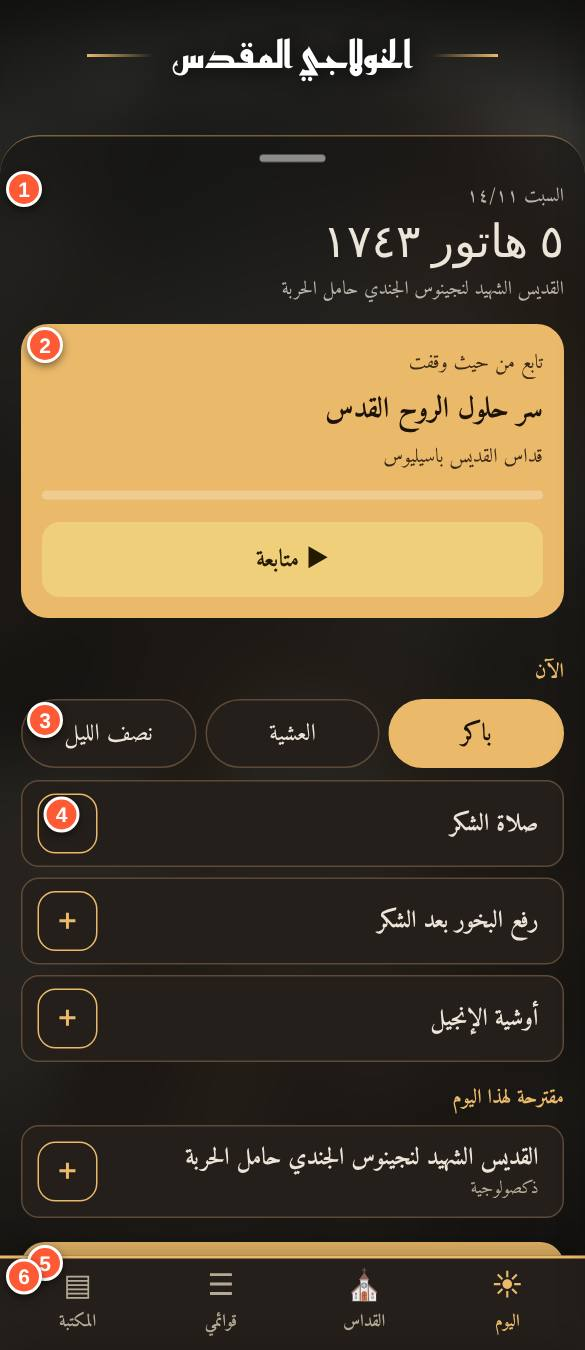
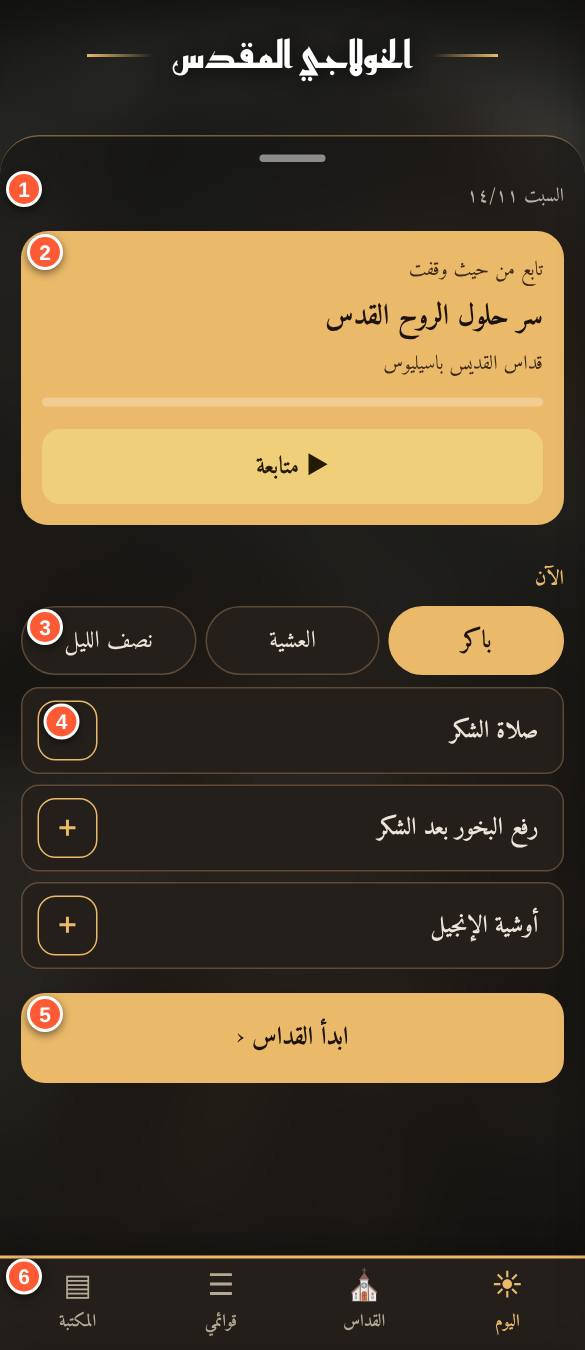
إلغاء وضع الشماس: ابدأ القداس بنفس الشكل العادي (r127)
Claude-Session: https://claude.ai/code/session_01TxsQH8W41ZBNhnMhe9bVaK

diff --git a/index.html b/index.html
@@ -775,7 +775,7 @@ function lastSet(v){try{localStorage.setItem("khulagi.last",v);localStorage.setI
 function seenGet(){try{return JSON.parse(localStorage.getItem("khulagi.seen")||"{}")}catch(e){return {}}}
 function seenSet(id){try{var m=seenGet();if(!m[id]){m[id]=1;localStorage.setItem("khulagi.seen",JSON.stringify(m))}}catch(e){}}
 function effMode(){var m=S.mode||"auto";if(DMon())return"dark";if(m==="auto")m=(window.matchMedia&&matchMedia("(prefers-color-scheme: light)").matches)?"light":"dark";return m}
-function DMon(){return typeof DM!=="undefined"&&DM}
+function DMon(){return false}
 function effTheme(){return effMode()==="light"?(S.tl||"parchment"):(S.td||"dawn")}
 function apply(){var r=document.documentElement;S.theme=effTheme();r.setAttribute("data-theme",S.theme);r.setAttribute("data-mode",effMode());r.style.colorScheme=effMode();r.style.setProperty("--fs",S.fs+"px");r.setAttribute("data-hv",S.hv);r.setAttribute("data-ds","d1");S.ff&&S.ff!=="amiri"?r.setAttribute("data-ff",S.ff):r.removeAttribute("data-ff");r.setAttribute("data-dn",S.dn);r.setAttribute("data-slim",S.slim?"true":"false");
   var m=document.querySelector('meta[name=theme-color]');if(m){var c=getComputedStyle(r).getPropertyValue("--bg").trim();if(c)m.content=c}}
@@ -1116,7 +1116,7 @@ function libView(){
   h+='</div><div class="tdl">أدوات</div><div class="chips"><button data-bn="map">☰ الفهرس</button><button data-bn="med">💭 تأملاتي</button><button data-bn="study">🔎 دراسة</button><button data-opensettings="1">⚙ الإعدادات</button></div>'+bnav('lib');
   app.innerHTML=h;window.scrollTo(0,0)}
 var DM=false;
-function dmSet(on){DM=on;document.documentElement.setAttribute("data-dm",on?"1":"0");try{localStorage.setItem("khulagi.dm",on?"1":"")}catch(e){}if(!on){var b=document.getElementById("dmbar"),p=document.getElementById("dmpanel");if(b)b.hidden=true;if(p)p.hidden=true}}
+function dmSet(on){DM=on;try{localStorage.setItem("khulagi.dm",on?"1":"")}catch(e){}if(!on){var b=document.getElementById("dmbar"),p=document.getElementById("dmpanel");if(b)b.hidden=true;if(p)p.hidden=true}}
 function sessGet(){try{return JSON.parse(localStorage.getItem("khulagi.sess")||"[]")}catch(e){return[]}}
 function sessAdd(id){if(!DM)return;var a=sessGet();if(a.indexOf(id)<0){a.push(id);try{localStorage.setItem("khulagi.sess",JSON.stringify(a))}catch(e){}}}
 function preView(){
@@ -1145,7 +1145,7 @@ function postView(){
   h+='<div class="tdl">أصلي من أجل</div><textarea id="pnote" class="area" placeholder="اكتب سطرًا واحدًا يبقى في سجلك…"></textarea><button class="tdstart" data-postsave="1">حفظ في سجلي</button>';
   if(lg.length)h+='<div class="tdl">آخر ما سجّلت</div><div class="lst" style="margin:0 14px">'+lg.slice(-6).reverse().map(function(x){var d=new Date(x.t);return '<div class="chk"><div><b>'+ar9(d.getDate())+'/'+ar9(d.getMonth()+1)+' · '+ar9(x.n)+' أقسام</b>'+(x.note?'<small>'+esc(x.note)+'</small>':'')+'</div></div>'}).join("")+'</div>';
   h+=bnav('home');app.innerHTML=h;window.scrollTo(0,0)}
-function dmBar(){var id=(location.hash.match(/^#\/s\/([^?]+)/)||[])[1],b=document.getElementById("dmbar"),p=document.getElementById("dmpanel");
+function dmBar(){var DM=false,id=(location.hash.match(/^#\/s\/([^?]+)/)||[])[1],b=document.getElementById("dmbar"),p=document.getElementById("dmpanel");
   var nv0=document.getElementById("dmnav");
   if(!DM||!id||!BYID[id]){if(b)b.hidden=true;if(p)p.hidden=true;if(nv0)nv0.hidden=true;return}
   if(!b){b=document.createElement("div");b.id="dmbar";document.body.appendChild(b);p=document.createElement("div");p.id="dmpanel";p.hidden=true;var nv=document.createElement("div");nv.id="dmnav";nv.innerHTML='<button class="pv" data-dm="prev">السابق</button><button class="nx" data-dm="next">التالي ‹</button>';document.body.appendChild(nv);p.innerHTML='<div class="dmr"><button data-dm="col" data-v="ar">ع</button><button data-dm="col" data-v="tr">م</button><button data-dm="col" data-v="cop">ق</button></div><div class="dmr"><button data-dm="qfs" data-v="-2">أ−</button><button data-dm="qfs" data-v="2">أ+</button><button data-dm="settings">⚙ الإعدادات</button></div><div class="dmr"><button class="dmend" data-dm="end">إنهاء القداس</button></div>';document.body.appendChild(p)}

diff --git a/sw.js b/sw.js
@@ -1,5 +1,5 @@
-const CACHE_NAME='khulagi-v1.5-shell-r126';
-const FILES=['./','index.html','guide-news.js','guide-pages.js','guide/deacon.jpg','guide/doxologies.jpg','guide/library.jpg','guide/lists.jpg','guide/lit.jpg','guide/notes.jpg','guide/post.jpg','guide/pre.jpg','guide/reader.jpg','guide/settings.jpg','guide/splash.jpg','guide/story.jpg','guide/today.jpg','reemkufi-arabic-700-normal.woff2','dawn.jpg','data.js','study.js','swipe.js','live.js','story.js','study-data.js','data-bible.js','content-raf.txt','content-bas.txt','content-greg.txt','content-cyr.txt','content-qisam.txt','content-misc.txt','content-bless.txt','content-app.txt','content-taqs.txt','content-dox.txt','manifest.webmanifest','icon-192.png','icon-512.png','amiri-arabic-400-normal.woff2','amiri-arabic-700-normal.woff2','amiri-latin-400-normal.woff2','tajawal-arabic-400.woff2','tajawal-latin-400.woff2','tajawal-arabic-700.woff2','tajawal-latin-700.woff2','cairo-arabic-400-normal.woff2','cairo-arabic-700-normal.woff2','el-messiri-arabic-400-normal.woff2','el-messiri-arabic-700-normal.woff2','lateef-arabic-400-normal.woff2','lateef-arabic-700-normal.woff2','markazi-text-arabic-400-normal.woff2','markazi-text-arabic-700-normal.woff2','noto-naskh-arabic-arabic-400-normal.woff2','noto-naskh-arabic-arabic-700-normal.woff2','reem-kufi-arabic-400-normal.woff2','reem-kufi-arabic-700-normal.woff2','scheherazade-new-arabic-400-normal.woff2','scheherazade-new-arabic-700-normal.woff2','amiri-latin-700-normal.woff2','noto-sans-coptic-coptic-400-normal.woff2','noto-sans-coptic-latin-400-normal.woff2'];
+const CACHE_NAME='khulagi-v1.5-shell-r127';
+const FILES=['./','index.html','guide-news.js','guide-pages.js','guide/doxologies.jpg','guide/library.jpg','guide/lists.jpg','guide/lit.jpg','guide/notes.jpg','guide/post.jpg','guide/pre.jpg','guide/reader.jpg','guide/settings.jpg','guide/splash.jpg','guide/story.jpg','guide/today.jpg','reemkufi-arabic-700-normal.woff2','dawn.jpg','data.js','study.js','swipe.js','live.js','story.js','study-data.js','data-bible.js','content-raf.txt','content-bas.txt','content-greg.txt','content-cyr.txt','content-qisam.txt','content-misc.txt','content-bless.txt','content-app.txt','content-taqs.txt','content-dox.txt','manifest.webmanifest','icon-192.png','icon-512.png','amiri-arabic-400-normal.woff2','amiri-arabic-700-normal.woff2','amiri-latin-400-normal.woff2','tajawal-arabic-400.woff2','tajawal-latin-400.woff2','tajawal-arabic-700.woff2','tajawal-latin-700.woff2','cairo-arabic-400-normal.woff2','cairo-arabic-700-normal.woff2','el-messiri-arabic-400-normal.woff2','el-messiri-arabic-700-normal.woff2','lateef-arabic-400-normal.woff2','lateef-arabic-700-normal.woff2','markazi-text-arabic-400-normal.woff2','markazi-text-arabic-700-normal.woff2','noto-naskh-arabic-arabic-400-normal.woff2','noto-naskh-arabic-arabic-700-normal.woff2','reem-kufi-arabic-400-normal.woff2','reem-kufi-arabic-700-normal.woff2','scheherazade-new-arabic-400-normal.woff2','scheherazade-new-arabic-700-normal.woff2','amiri-latin-700-normal.woff2','noto-sans-coptic-coptic-400-normal.woff2','noto-sans-coptic-latin-400-normal.woff2'];
 self.addEventListener('install',e=>{e.waitUntil(caches.open(CACHE_NAME).then(c=>Promise.all(FILES.map(f=>c.add(new Request(f,{cache:'reload'})).catch(()=>{})))).then(()=>self.skipWaiting()))});
 self.addEventListener('activate',e=>{e.waitUntil(caches.keys().then(k=>Promise.all(k.filter(x=>x!==CACHE_NAME).map(x=>caches.delete(x)))).then(()=>self.clients.claim()))});
 self.addEventListener('fetch',e=>{if(e.request.method!=='GET')return;e.respondWith(fetch(e.request,{cache:'no-cache'}).then(r=>{if(r&&r.ok&&new URL(e.request.url).origin===location.origin){const c=r.clone();caches.open(CACHE_NAME).then(x=>x.put(e.request,c))}return r}).catch(()=>caches.match(e.request,{ignoreSearch:true})))});

diff --git a/tools/make-guide.js b/tools/make-guide.js
@@ -32,8 +32,6 @@ const SPECS=[
  marks:[['.search.lib','بحث','اضغط وابحث بالعربي أو القبطي.'],['.grid .g','أقسام الكتاب','رفع البخور، القداسات، القسمة، الذكصولوجيات، دليل الطقس وغيرها.'],['.chips','أدوات','الفهرس الكامل، تأملاتي (وما كتبته أنت)، ودراسة (مقارنة القداسات وقاموس القبطي).']]},
 {id:'doxologies',title:'الذكصولوجيات',hash:'#/g/dox',setup:async p=>{await open(p,'[data-ddt="l"]');await open(p,'[data-ddl="م"]');await open(p,'[data-dds="ميخائيل رئيس الملائكه"]')},summary:'١٥٣ ذكصولوجية. تصل لأي واحدة بثلاث قوائم صغيرة: الحرف ثم القديس ثم الذكصولوجية.',
  marks:[['.dxbar .pri','قائمتي','اسم قائمتك الحالية وعدد أقسامها. يفتح «قوائمي».'],['.ddw>.ddf:nth-child(1) .ddsel','١. الحرف','يعرض الحروف الموجودة فعلا فقط. اختيار الحرف يفتح قائمة القديسين تلقائيا.'],['.ddw>.ddf:nth-child(2) .ddsel','٢. القديس','أسماء القديسين داخل الحرف بترتيب أبجدي بدون ألقاب، وتحت الاسم عدد ذكصولوجياته لو أكثر من واحدة.'],['.ddw>.ddf:nth-child(3) .ddsel','٣. الذكصولوجية','لو للقديس أكثر من ذكصولوجية تظهر مرقّمة (ذكصولوجية ١، ٢…) ومعها أول ٣ كلمات منها لتعرف أيها تفتح. لو له واحدة فقط تُختار وحدها.'],['.pdm .o:nth-child(2)','اختيار نسخة','اضغط الذكصولوجية المطلوبة فتظهر بطاقتها تحت القوائم مع ＋ للإضافة لقائمتك وزر «فتح».']]},
-{id:'deacon',title:'وضع الشماس',hash:'#/pre',setup:async p=>{await open(p,'[data-dmgo="lit"]');await p.waitForTimeout(900);await open(p,'.dmt')},summary:'أثناء القداس تبقى القراءة فقط: داكنة، بخط كبير، وأزرار قليلة.',
- marks:[['#dmbar','✕ إنهاء · ⚙ عرض','✕ يخرجك من وضع الشماس، و«⚙ عرض» يفتح اللوحة (اضغط اسم القسم أيضا).'],['#dmpanel','ع · م · ق · أ± · الإعدادات','إظهار/إخفاء أعمدة العربي والمعرب والقبطي، وتكبير الخط، والإعدادات، وإنهاء القداس.'],['#dmnav .nx','التالي','زر كبير في منطقة الإبهام، ينقلك للجزء التالي (أو التالي في قائمتك).'],['#dmnav .pv','السابق','الرجوع للجزء السابق.']]},
 {id:'post',title:'بعد القداس',hash:'#/post',summary:'ملخص هادئ لما صليته، وسطر شخصي يبقى في سجلك.',
  marks:[['.sum','الملخص','عدد الأقسام التي صليتها وعدد القداسات في سجلك.'],['#pnote','أصلي من أجل','اكتب سطرا يبقى في سجلك.'],['[data-postsave]','حفظ في سجلي','يحفظ الملاحظة وما صليته، وتظهر لاحقا تحت «آخر ما سجّلت».']]},
 {id:'notes',title:'تأملي الشخصي',hash:'#/s/bas-hulul',setup:async p=>{await open(p,'.mnb')},summary:'اكتب تأملك الخاص تحت أي قطعة.',

diff --git a/guide-pages.js b/guide-pages.js
@@ -242,16 +242,21 @@ window.KG_PAGES=[
    ],
    [
     3,
+    "اقتراحات اليوم",
+    "ذكصولوجيات تناسب اليوم. ＋ لإضافتها، أو «أضف الكل»."
+   ],
+   [
+    4,
     "ابدأ القراءة",
     "يقرأ من أول قسم ويتنقل بترتيب القائمة."
    ],
    [
-    4,
+    5,
     "الترتيب",
     "رقم القسم في القائمة."
    ],
    [
-    5,
+    6,
     "▲ ▼ ✕",
     "تحريك القسم لأعلى أو لأسفل أو حذفه."
    ]
@@ -312,35 +317,6 @@ window.KG_PAGES=[
     5,
     "اختيار نسخة",
     "اضغط الذكصولوجية المطلوبة فتظهر بطاقتها تحت القوائم مع ＋ للإضافة لقائمتك وزر «فتح»."
-   ]
-  ],
-  "nav": ""
- },
- {
-  "id": "deacon",
-  "title": "وضع الشماس",
-  "img": "guide/deacon.jpg",
-  "summary": "أثناء القداس تبقى القراءة فقط: داكنة، بخط كبير، وأزرار قليلة.",
-  "items": [
-   [
-    1,
-    "✕ إنهاء · ⚙ عرض",
-    "✕ يخرجك من وضع الشماس، و«⚙ عرض» يفتح اللوحة (اضغط اسم القسم أيضا)."
-   ],
-   [
-    2,
-    "ع · م · ق · أ± · الإعدادات",
-    "إظهار/إخفاء أعمدة العربي والمعرب والقبطي، وتكبير الخط، والإعدادات، وإنهاء القداس."
-   ],
-   [
-    3,
-    "التالي",
-    "زر كبير في منطقة الإبهام، ينقلك للجزء التالي (أو التالي في قائمتك)."
-   ],
-   [
-    4,
-    "السابق",
-    "الرجوع للجزء السابق."
    ]
   ],
   "nav": ""

diff --git a/guide-news.js b/guide-news.js
@@ -1,6 +1,7 @@
 /* سجل الميزات الجديدة (الأحدث أولا). كل ميزة جديدة تُضاف هنا كمدخل جديد في أعلى القائمة،
    ثم تُحدَّث مواصفة الصفحة المتأثرة في tools/make-guide.js وتُعاد اللقطات (node tools/make-guide.js). */
 window.KG_NEWS=[
+{v:"r127",t:"«ابدأ القداس» بنفس الشكل العادي",x:"أُلغي «وضع الشماس» بشكله الداكن المختلف. الزر يفتح القراءة بنفس تصميمك وألوانك ويسجّل ما صليته، وتجد «بعد القداس» في القائمة."},
 {v:"r126",t:"وضع الشماس: خروج وأعمدة ظاهرة",x:"لم يعد وضع الشماس يُستعاد تلقائيا عند فتح البرنامج. في الشريط العلوي زر ✕ إنهاء وزر ⚙ عرض، واللوحة فيها أزرار ع/م/ق لإظهار الأعمدة، وأ±، والإعدادات."},
 {v:"r122",t:"زر الإعدادات ☰ في البانر",x:"زر ☰ في أعلى البانر في كل الصفحات ما عدا الشاشة الأولى. من الشاشة الأولى تصل للإعدادات من المكتبة ثم «⚙ الإعدادات»، وفي وضع الشماس اضغط اسم القسم ثم ⚙."},
 {v:"r121",t:"اختيار الذكصولوجيات بثلاث قوائم",x:"في المكتبة ثم الذكصولوجيات: قوائم صغيرة مرتبة (الحرف ثم القديس ثم الذكصولوجية). لو للقديس أكثر من ذكصولوجية تظهر مرقّمة مع أول ٣ كلمات منها، وبعد الاختيار بطاقة فيها ＋ وفتح."},
